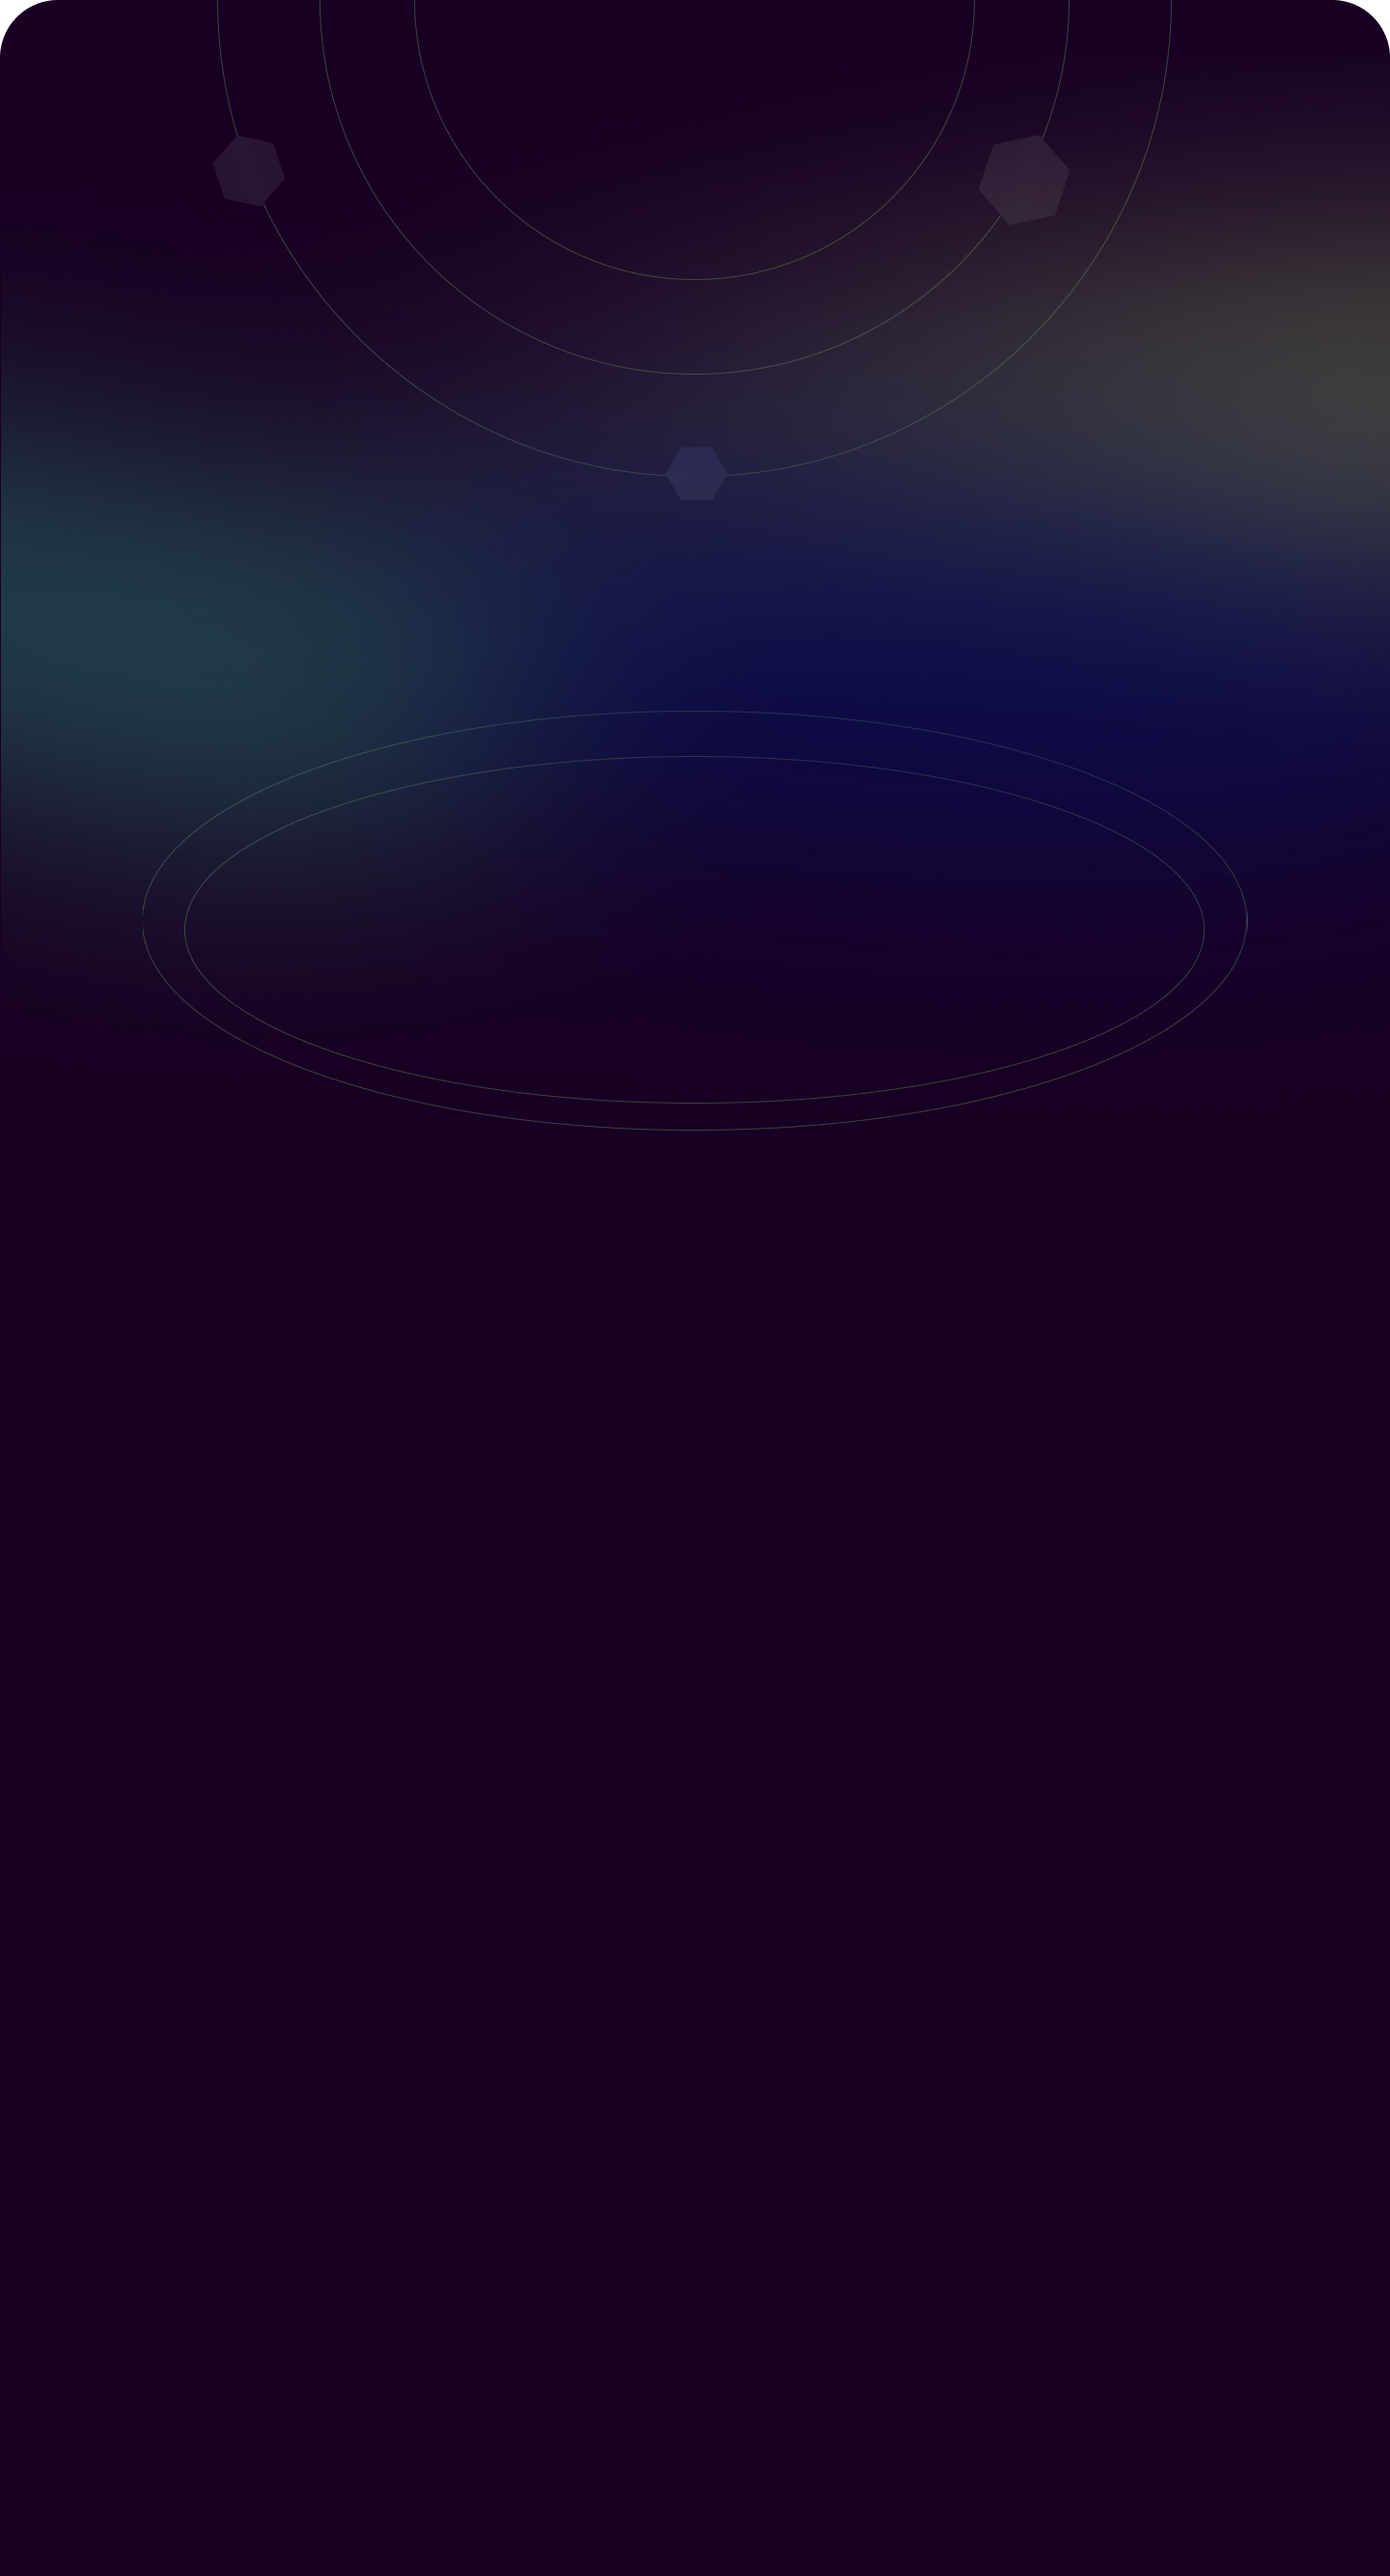
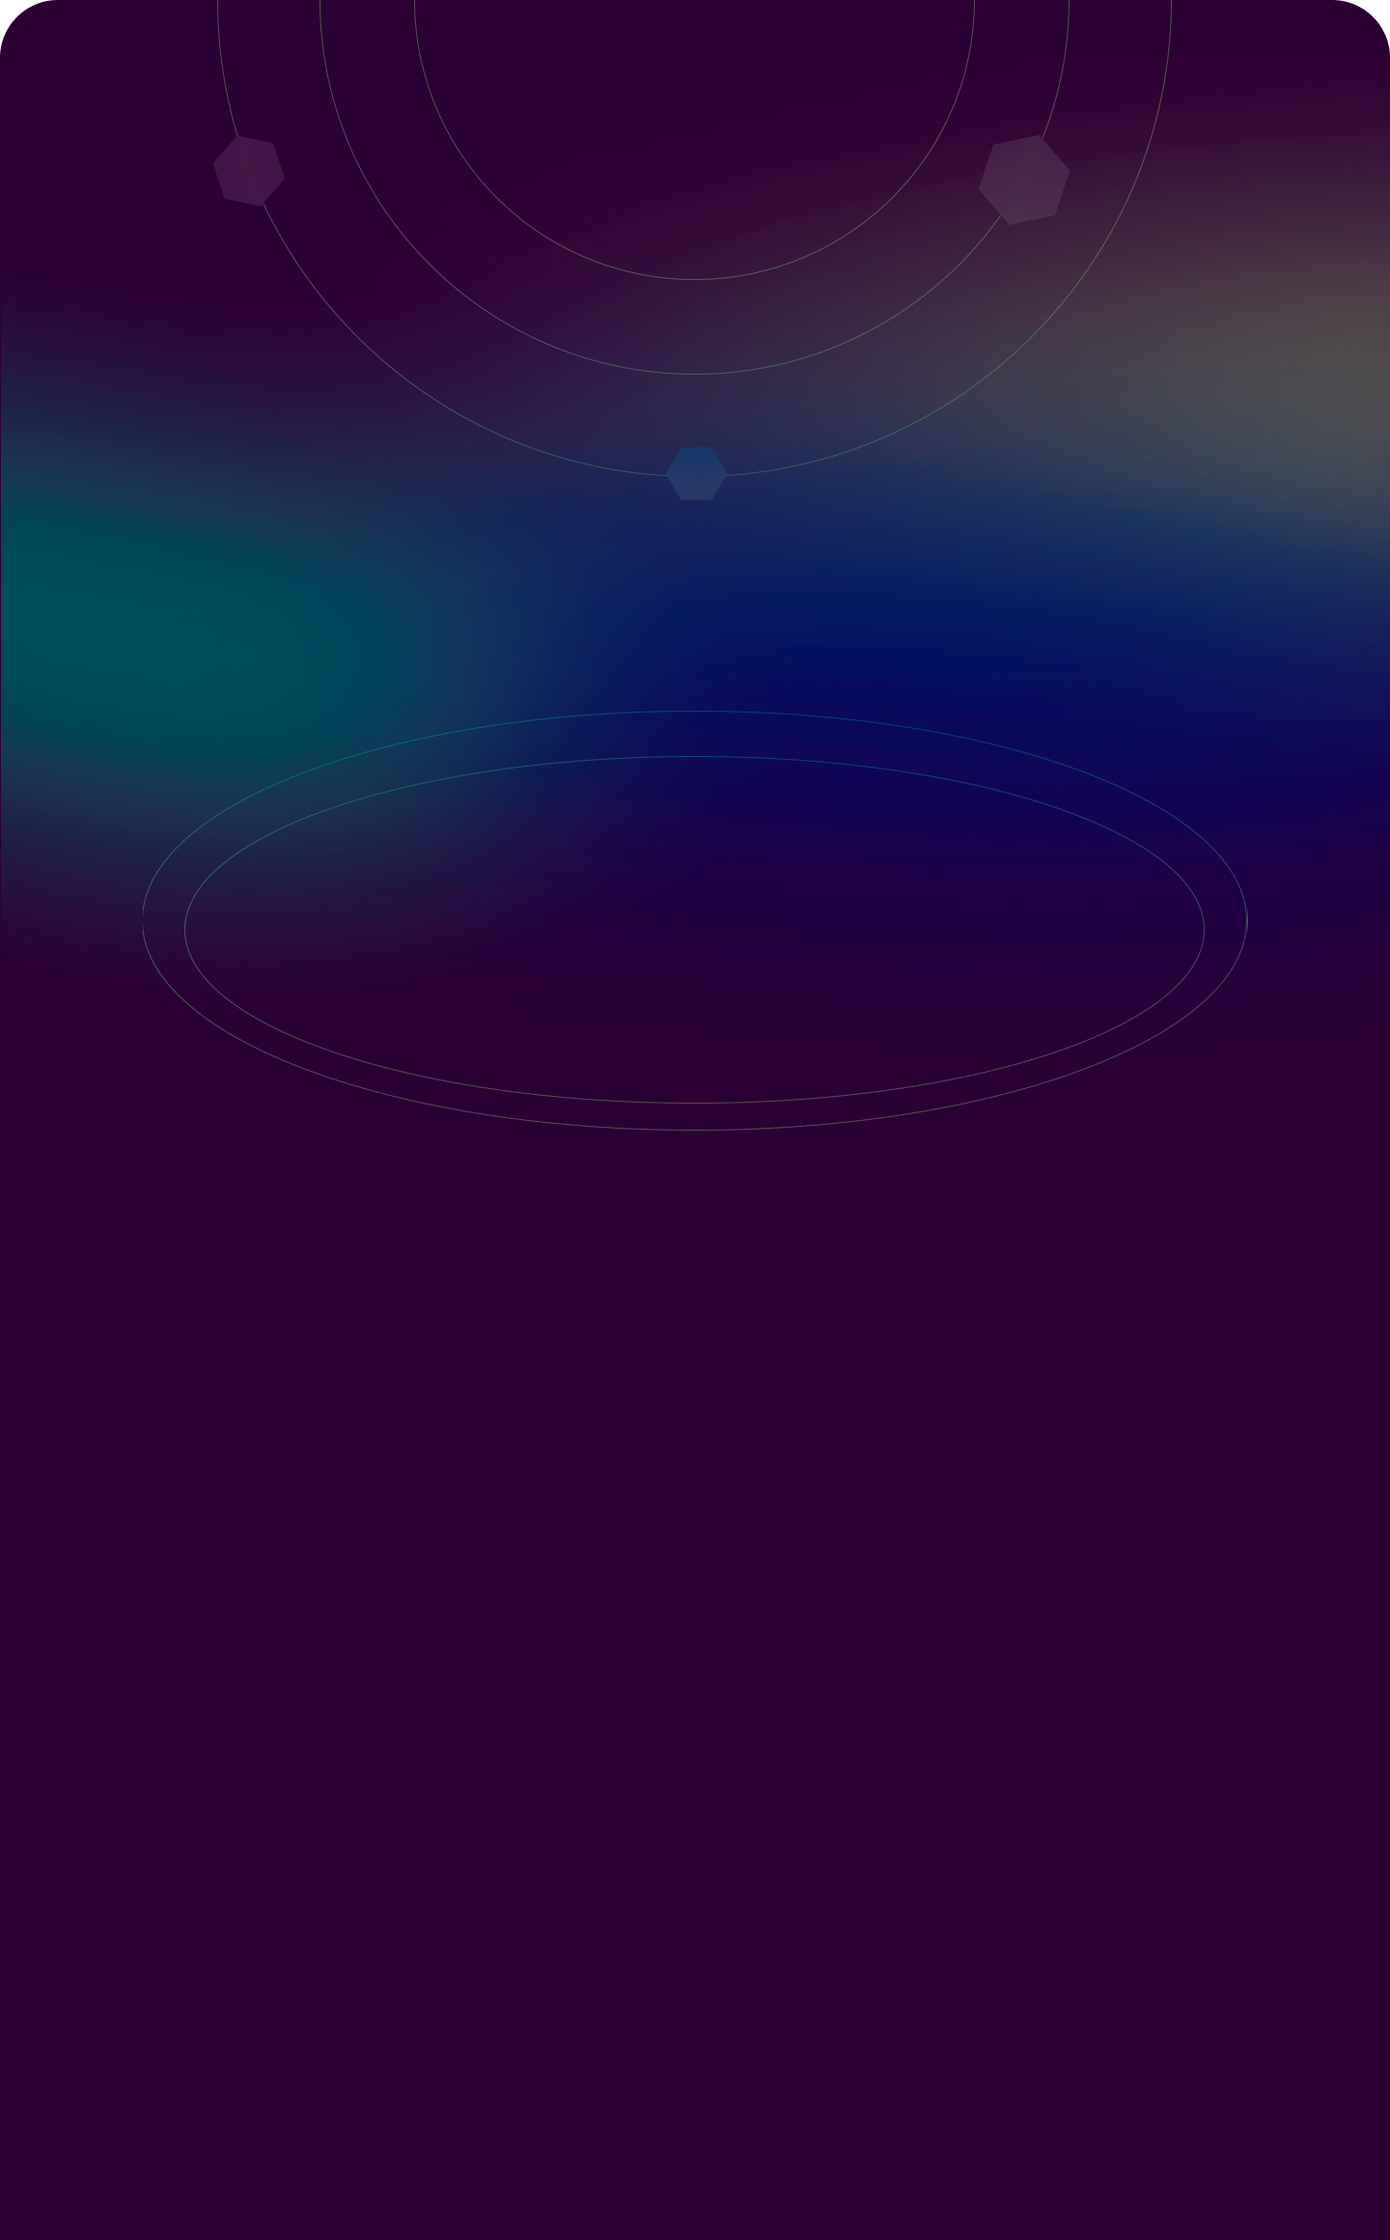
FinishDesktopFix4

diff --git a/src/components/Team/TeamAdaptive/index.jsx b/src/components/Team/TeamAdaptive/index.jsx
@@ -1,0 +1,27 @@
+import styles from './teamAdaptive.module.scss'
+import React from 'react';
+
+const TeamAdaptive = () => {
+    return(
+        <div className={styles.block}>
+            <div className={styles.underBlock}>
+                <img src="./img/Rectangle 127.png" />
+                <div className={styles.gap}>
+                    <h1 className={styles.subtitle}>Serg Ruden</h1>
+                    <h1 className={styles.title}>CEO and Founder</h1>
+                    <p className={styles.text}>Serg is an investor and serial entrepreneur. Serg has more than 10 years of experience in international marketing agencies and in the fintech industry. Since 2015, he has been heavily engaged in private investment, development and strategic consulting of projects.</p>
+                </div>
+            </div>
+            <div className={styles.underBlock}>
+                <img src="./img/Rectangle 127 (1).png" />
+                <div className={styles.gap}>
+                    <h1 className={styles.subtitle}>Ramin Mikailov</h1>
+                    <h1 className={styles.title}>CBDO and Co-Founder</h1>
+                    <p className={styles.text}>Ramin is cybersecurity expert with more than 14 year of experience in many large companies. Since 2016 he has deeply immersed in business development and strategic management a lot of digital projects.</p>
+                </div>
+            </div>
+        </div>
+    )
+}
+
+export default TeamAdaptive;

diff --git a/src/components/Learn/learn.module.scss b/src/components/Learn/learn.module.scss
@@ -13,7 +13,7 @@
     text-align: center;
     margin: 0 auto;
     color: #FFFFFF;
-    padding-top: 85px;
+    padding-top: 115px;
 }
 
 .block {
@@ -31,6 +31,18 @@
 }
 
 .flex {
+    display: flex;
+    gap: 9rem;
+    margin-top: 30px;
+}
+
+.flexOne {
+    display: flex;
+    gap: 9rem;
+    margin-top: 30px;
+}
+
+.flexTwo {
     display: flex;
     gap: 9rem;
     margin-top: 30px;
@@ -85,4 +97,55 @@
     border-radius: 15px;
     margin: 0 auto;
     margin-top: 160px;
+}
+
+.adaptiveImage {
+    display: none;
+}
+
+@media screen and (max-width: 480px) {
+    .block {
+        display: grid;
+    }
+    .blockOne {
+        margin-top: 30px;
+        width: 300px;
+        padding: 0 30px;
+    }
+    .blockTwo {
+        margin-top: 20px;
+        width: 300px;
+        padding: 0 30px;
+    }
+    .blockThree {
+        margin-top: 20px;
+        width: 300px;
+        padding: 0 30px;
+    }
+    .title {
+        text-align: center;
+        margin-left: 0px;
+    }
+    .smallTitle {
+        text-align: center;
+        margin-left: 0px;
+    }
+    .flex {
+        justify-content: right;
+        gap: 3.7rem;
+    }
+    .flexOne {
+        justify-content: left;
+        gap: 1.8rem;
+    }
+    .flexTwo {
+        justify-content: right;
+        gap: 2.3rem;
+    }
+    .adaptiveImage {
+        display: block;
+    }
+    .adaptiveImageNone {
+        display: none;
+    }
 }

diff --git a/src/components/Learn/index.jsx b/src/components/Learn/index.jsx
@@ -19,18 +19,19 @@ const Learn = () => {
                 </div>
 
                 <div className={styles.blockTwo}>
-                    <div className={styles.flex}>
+                    <div className={styles.flexOne}>
+                        <img src="./img/Frame 19 (1).png" className={styles.adaptiveImage}/>
                         <div className={styles.cyrcle}>
                             <img src="./img/Vector (9).png" />
                         </div>
-                        <img src="./img/Frame 19 (1).png" />
+                        <img src="./img/Frame 19 (1).png" className={styles.adaptiveImageNone}/>
                     </div>
                     <h1 className={styles.title}>Blog FQ</h1>
                     <p className={styles.smallTitle}>Lorem ipsum dolor sit amet<br/> consectetur. Rhoncus<br/> tincidunt sapien volutpat</p>
                 </div>
 
                 <div className={styles.blockThree}>
-                    <div className={styles.flex}>
+                    <div className={styles.flexTwo}>
                         <div className={styles.cyrcle}>
                             <img src="./img/circle-user (1) (1).png" />
                         </div>

diff --git a/src/components/AboutUs/aboutus.module.scss b/src/components/AboutUs/aboutus.module.scss
@@ -4,7 +4,7 @@
     max-width: 100%;
     height: 890px;
     background-color: white;
-    background-image: url('../../../public/img/Без-имени-1.png');
+    background-image: url('../../../public/img/aboutBack.png');
     background-position: center center;      
     background-repeat: no-repeat;   
     background-size: cover;      
@@ -96,5 +96,17 @@
     letter-spacing: 0em;
     text-align: center;
     position: absolute;
-    left: 43%;
+    left: 50%;
+    transform: translateX(-50%);
+}
+
+@media screen and (max-width: 480px) {
+    .aboutUs {
+        height: 940px;
+        background-image: url('../../../public/img/phone123.png');
+    }
+    .underBlock {
+        gap: 1rem;
+        margin-top: 50px;
+    }
 }

diff --git a/src/components/Team/TeamAdaptive/teamAdaptive.module.scss b/src/components/Team/TeamAdaptive/teamAdaptive.module.scss
@@ -1,0 +1,48 @@
+/* TeamAdaptive */
+
+.block {
+    display: grid;
+    justify-content: center;
+    gap: 1.3rem;
+    display: none;
+}
+
+.underBlock {
+    padding: 30px;
+    width: 298px; 
+    height: 376px; 
+    background-color: white;
+    border-radius: 15px;
+    max-width: 100%;
+    margin: 0 auto;
+    margin-top: 30px;
+}
+
+.subtitle {
+    font-size: 16px;
+    color: black;
+    font-weight: 700;
+}
+
+.title {
+    color: #03E7D9;
+    font-size: 16px;
+    font-weight: 700;
+}
+
+.text {    
+    color: #1F1F1F;
+    font-size: 14px;
+    font-weight: 300;
+}
+
+.gap {
+    display: grid;
+}
+
+@media screen and (max-width: 480px) {
+    .block {
+        display: block;
+    }
+}
+

diff --git a/src/styles/style.scss b/src/styles/style.scss
@@ -8,12 +8,20 @@ body {
 .pureBlock {
     background-image: url('../../public/img/Rectangle-123-_2_.png');
     max-width: 100%;
-    height: 2900px;     
+    height: 2850px;     
     background-repeat: no-repeat;   
-    background-size: cover;      
+    background-size: cover;   
+    background-position: center center;   
     margin: 0 auto;
 }
 
 a {
     text-decoration: none;
+}
+
+@media screen and (max-width: 480px) {
+    .pureBlock {
+        background-image: url('../../public/img/Rectangle-123-_3_.png');
+        height: 4600px;
+    }
 }

diff --git a/src/components/Pricing/PricingForm/pricingForm.module.scss b/src/components/Pricing/PricingForm/pricingForm.module.scss
@@ -129,4 +129,24 @@
     line-height: 20px;
     letter-spacing: 0em;
     cursor: pointer;
+    transition: 0.3s;
+}
+
+.sendInput:hover {
+    background-color: transparent;
+    background-repeat: no-repeat;
+    overflow: hidden;
+    outline: none;
+    width: 73px;
+    height: 40px;
+    border: 1px solid #03E7D9;
+    color: black;
+    background-color: #03E7D9;
+    border-radius: 15px;
+    font-family: Sora;
+    font-size: 16px;
+    font-weight: 700;
+    line-height: 20px;
+    letter-spacing: 0em;
+    cursor: pointer;
 }

diff --git a/src/components/Pricing/pricing.module.scss b/src/components/Pricing/pricing.module.scss
@@ -9,13 +9,13 @@
     text-align: center;
     margin: 0 auto;
     color: #FFFFFF;
-    padding-top: 130px;
+    padding-top: 150px;
 }
 
 .flex {
     display: flex;
     margin: 0 auto;
-    max-width: 55%;
+    justify-content: center;
     gap: 5rem;
     padding-top: 40px;
 }
@@ -66,4 +66,14 @@
     display: flex;
     margin: 0 auto;
     gap: 1.4rem;
+}
+
+@media screen and (max-width: 480px) {
+    .flex {
+        gap: 1rem;
+        display: grid;
+    }
+    .subtytle {
+        padding-top: 80px;
+    }
 }

diff --git a/src/Contacts/contacts.module.scss b/src/Contacts/contacts.module.scss
@@ -9,7 +9,7 @@
     text-align: center;
     margin: 0 auto;
     color: #FFFFFF;
-    padding-top: 230px;
+    padding-top: 100px;
 }
 
 .flex {
@@ -60,4 +60,17 @@
     cursor: pointer;
     overflow: hidden;
     outline: none;
+}
+
+@media screen and (max-width: 480px) {
+    .flex {
+        gap: 2rem;
+        display: grid;
+    }
+    .flexButton {
+        margin: 0 auto;
+    }
+    .subtytle {
+        padding-top: 80px;
+    }
 }

diff --git a/src/App.jsx b/src/App.jsx
@@ -7,6 +7,7 @@ import Contacts from "./Contacts";
 import Pricing from "./components/Pricing";
 import Footer from "./components/Footer";
 import './styles/style.scss'
+import TeamAdaptive from "./components/Team/TeamAdaptive";
 
 function App() {
   return (
@@ -17,6 +18,7 @@ function App() {
     <div className="pureBlock">
       <Learn />
       <Team />
+      <TeamAdaptive />
       <Contacts />
       <Pricing />
       <Footer />

diff --git a/src/components/Team/team.module.scss b/src/components/Team/team.module.scss
@@ -9,7 +9,7 @@
     text-align: center;
     margin: 0 auto;
     color: #FFFFFF;
-    padding-top: 230px;
+    padding-top: 190px;
 }
 
 .flex {
@@ -21,4 +21,13 @@
 .image {
     margin: 0 auto;
     margin-bottom: 25px;
+}
+
+@media screen and (max-width: 480px) {
+    .flex {
+        display: none;
+    }
+    .subtytle {
+        padding-top: 80px;
+    }
 }

diff --git a/src/components/Team/TeamItem/teamItem.module.scss b/src/components/Team/TeamItem/teamItem.module.scss
@@ -7,9 +7,10 @@
 
 .block {
     background-color: #FFFFFF;
-    width: 560px;
+    width: 530px;
     height: 185px;
     padding-left: 20px;
+    padding-right: 30px;
     border-radius: 25px;
 }
 
